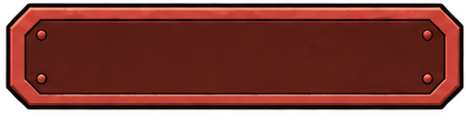
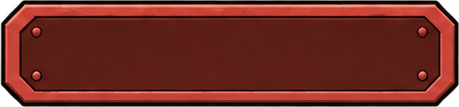
Defeat screen: make the three bottom buttons the same size
Crop the button art to its visible bounds (the normal button had extra top padding)
and use the same nine-patch margins for both.

Claude-Session: https://claude.ai/code/session_014aytw3hj7boqn3SZ5GP5ti

diff --git a/docs/design/00_decision_log_v1_0.md b/docs/design/00_decision_log_v1_0.md
@@ -760,6 +760,9 @@
 - 패키지의 summary_panel · settlement_panel(안쪽 줄 그림)은 줄 수 · 높이가 고정이라, 세 판 모두 status_card 9칸 늘리기로 그리고 줄은 코드로 (그림은 assets 에 보관).
 - 재도전 = 같은 설정으로 다시 전투(예전 '다시 전투'), 기지로 = 기지 복귀(전투 테스트면 메뉴로).
 
+### 2026-10-31 — 패배 화면 버튼 크기 맞춤
+- button_normal · button_red 그림의 투명 여백이 달라(위 17px 대 3px) 같은 칸에 그려도 크기가 달라 보였음 → 두 그림을 보이는 부분만 남게 잘라내고 9칸 여백도 같게(36).
+
 ## 검증 중 (확정 아님)
 - **배경 3D + 캐릭터 2D 하이브리드** (2026-10-25 적용): 배경은 3D 방을 2D 카메라와 같은 투영으로 렌더, 캐릭터 라이팅은 실제 광원 위치 기준
   (빛 쪽 얼굴·몸을 광원색으로 밝힘 + 빛이 뒤에서 오면 같은 쪽 가장자리 림 + 바닥 그림자). 캐릭터 2D(리그)는 확정 사항 유지. (이전 2D 배경 판은 2026-10-27 제거.)
